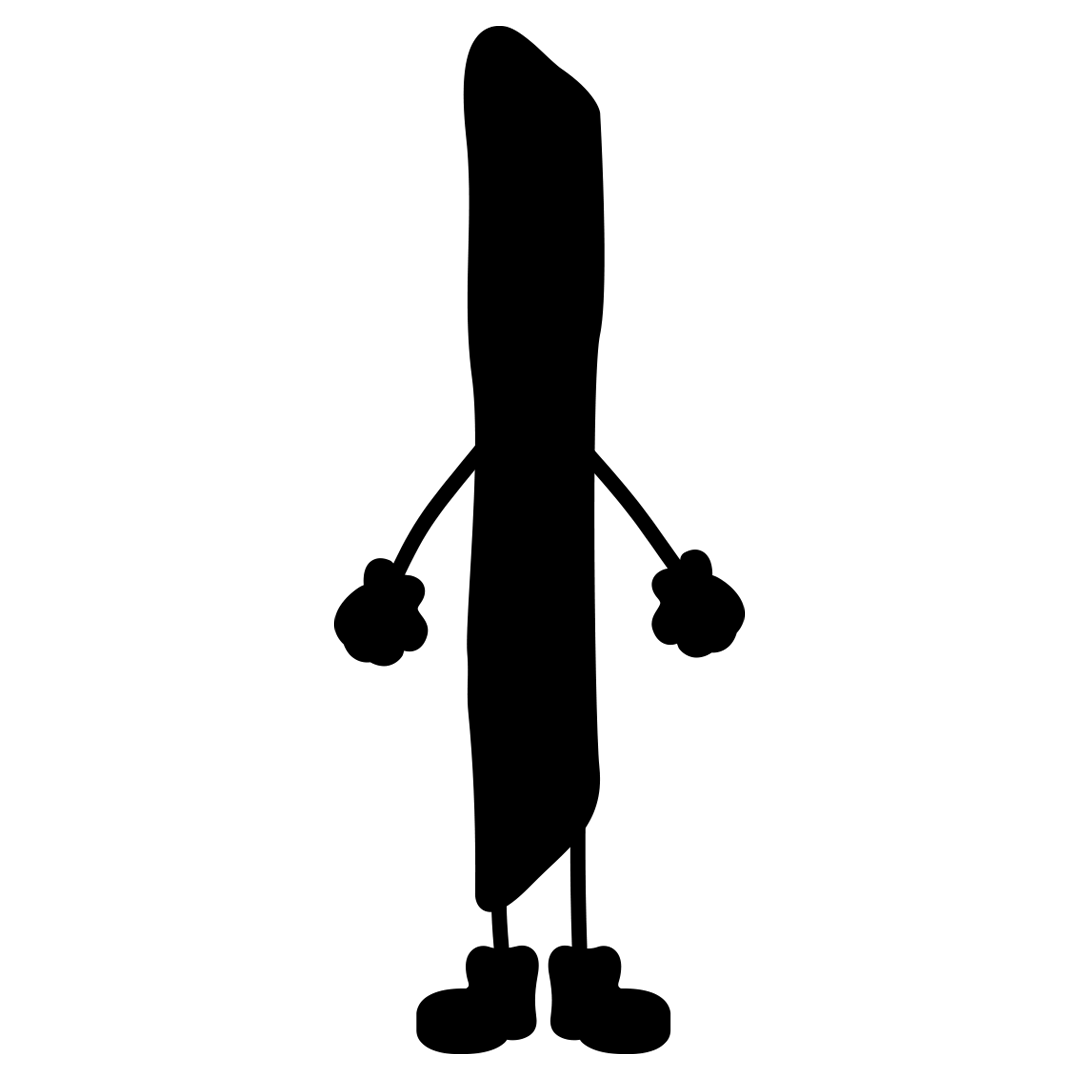
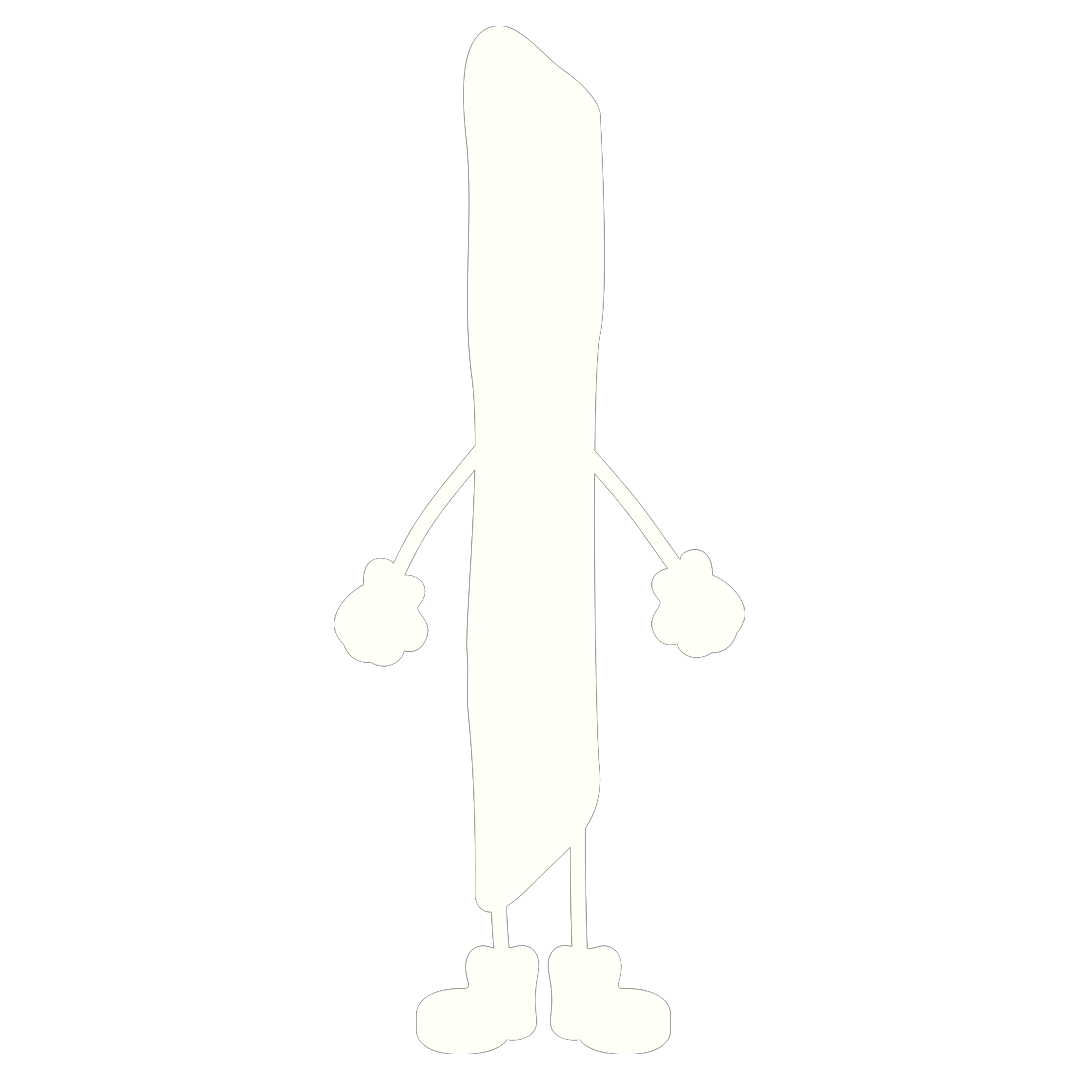
.
코드 각 비율 업데이트

Changed region(s): [[0.3056, 0.0, 0.7028, 0.9778]]

diff --git a/play/index.html b/play/index.html
@@ -10,38 +10,36 @@
 </head>
 <body>
   <div id="game">
+    <div class="play-title">
+      <p class="text1">사건을 선택하세요.</p>
+    </div>
+    <div class="arrow left"></div>
+    <div class="arrow right"></div>
+    
+    <div class="illust-frame">
 
-  <div class="play-title">
-    <p class="text1">사건을 선택하세요.</p>
-  </div>
 
-  <div class="illust-frame">
-    <div class="illusts">
-
-      <div class="slide1">
-        <img src="../assets/cheese.png">
-        <p class="caption1">FF-M-001</p>
-      </div>
-
-      <div class="slide2">
-        <img src="../assets/milkshake.png">
-        <p class="caption2">FF-M-002</p>
-      </div>
-
-      <div class="slide3">
-        <img src="../assets/icecream.png">
-        <p class="caption3">FF-M-003</p>
+      <div class="window">
+        <div class="illusts">
+          <div class="slide1">
+            <img src="../assets/cheese.png">
+            <p class="caption1">FF-M-001</p>
+          </div>
+          <div class="slide2">
+            <img src="../assets/milkshake.png">
+            <p class="caption2">FF-M-002</p>
+          </div>
+          <div class="slide3">
+            <img src="../assets/icecream.png">
+            <p class="caption3">FF-M-003</p>
+          </div>
+        </div>
       </div>
 
     </div>
 
-  </div>
-  <div>
     <button class="select-btn">선택하기</button>
-    <div class="arrow left"></div>
-    <div class="arrow right"></div>
   </div>
-</div>
-    <script src="./sketch.js"></script>
+  <script src="./sketch.js"></script>
 </body>
 </html>

diff --git a/style.css b/style.css
@@ -34,22 +34,38 @@ body {
 
 .title-area {
   text-align: center;
+  position: relative;   /* 🔥 버튼 기준 부모 */
 }
 
-.title-area h1 {
-  font-size: 64px;
-  line-height: 1.1;
-  margin-bottom: 30px;
+.character{
+  width: 80vw;
+  height: 80vh;
+  display: flex;
+  justify-content: center;
+  align-items: center
+}
+
+.potato{
+  position: absolute;
+  left:1vw;
+  top: 25vh;
+  width: 20vw;  /* 5K 기준 적당한 비율 */
+  height: auto;
 }
 
 button {
-  padding: 12px 30px;
-  border-radius: 999px;
+  position: absolute;
+  top: 65vh;            /* 원하는 위치로 조절 */
+  left: 50%;
+  transform: translateX(-50%);
+
+  padding: 64px 100px; /* 버튼 전체 크기 결정 */
+  border-radius: 999px; 
   border: 1px solid white;
   background: transparent;
   color: white;
   cursor: pointer;
-  font-size: 16px;
+  font-size: 60px; /* 글자 크기 */
 }
 
 button:hover {

diff --git a/play/style.css b/play/style.css
@@ -14,7 +14,7 @@
 }
 
 body {
-  background: #000;
+  background: #1B1A1A;
   min-height: 100vh;
   margin: 0;
 }
@@ -36,7 +36,7 @@ body {
   font-size: 25px;
   line-height: 160%;
   letter-spacing: -0.02em;
-  color: #fff;
+  color: #FFFEF7;
 }
 
 .illust-frame {
@@ -91,17 +91,17 @@ body {
 }
 
 .arrow.left {
-  left: 80px;
+  left: 1800px;
   border-top: 43px solid transparent;
   border-bottom: 43px solid transparent;
-  border-right: 50px solid #FFFFFF;
+  border-right: 50px solid #FFFEF7;
 }
 
 .arrow.right {
-  right: 80px;
+  right: 1800px;
   border-top: 43px solid transparent;
   border-bottom: 43px solid transparent;
-  border-left: 50px solid #FFFFFF;
+  border-left: 50px solid #FFFEF7;
 }
 
 button {
@@ -117,7 +117,7 @@ button {
 }
 
 button:hover {
-  background: white;
-  color: black;
+  background: #FFFEF7;
+  color: #1B1A1A;
 }
 

diff --git a/info/style.css b/info/style.css
@@ -23,34 +23,34 @@ body {
 /* 사건설명 텍스트 */
 .label {
   position: absolute;
-  top: 20px;
-  left: 120px;
+  top: 43vh;
+  left: 6vw;
   opacity: 0.5;
-  font-size: 30px;
+  font-size: 50px;
 }
 
 /* 본문 텍스트 */
 .story-text {
   position: absolute;
-  top: 40vh;
-  left: 10vw;
+  top: 45vh;
+  left: 6vw;
   max-width: 70vw;
-  font-size: 30px;
+  font-size: 60px;
   line-height: 1.6;
 }
 
 /* ▶ 다음 버튼 */
 .next-btn {
   position: absolute;
-  bottom: 40px;
-  right: 40px;
+  bottom: 1350px;
+  right: 1500px;
 
   width: 0;
   height: 0;
 
-  border-top: 20px solid transparent;
-  border-bottom: 20px solid transparent;
-  border-left: 30px solid #aaa;
+  border-top: 3vh solid transparent;
+  border-bottom: 3vh solid transparent;
+  border-left: 3vw solid #aaa;
 
   background: none;
   cursor: pointer;

diff --git a/index.html b/index.html
@@ -11,10 +11,7 @@
     <main class="screen start">
     <div class="title-area">
       <img src="assets/logo.png" class="character"/>
-      <h1>
-        Fry Burger<br/>
-        Investigation
-      </h1>
+      <img src="assets/potato.png" class="potato"/>
       <button id="startBtn">시작하기</button>
     </div>
     </div>

diff --git a/sketch.js b/sketch.js
@@ -1,3 +1,3 @@
 document.getElementById("startBtn").addEventListener("click", () => {
-  window.location.href = "/Fry-Burger-Investigation/info/";
+  window.location.href = "info/";
 });
